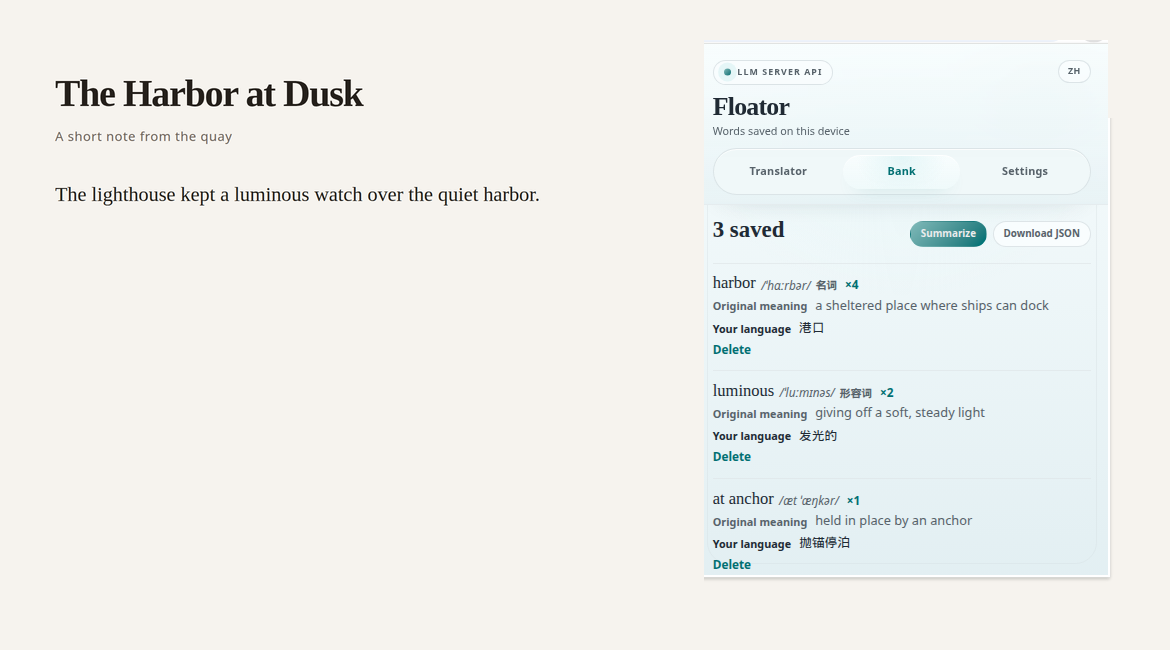
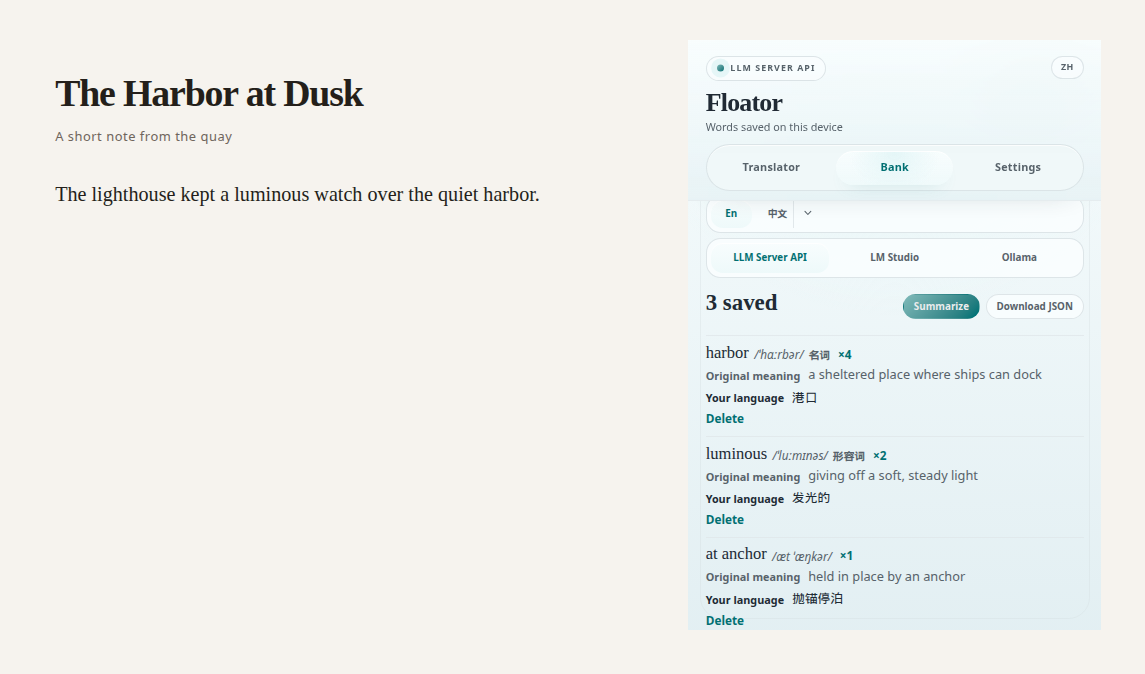
docs: show providers and En | 中文 with the bank
Keep the Bank list in place and show the real language switch and provider choices in that same popup.

diff --git a/src/popup/index.tsx b/src/popup/index.tsx
@@ -499,6 +499,94 @@ function BankPanel({
   )
 }
 
+function LanguageControl({
+  userLanguage,
+  interfaceSide,
+  t,
+  onCommit,
+}: {
+  userLanguage: UserLanguage
+  interfaceSide: InterfaceSide
+  t: ReturnType<typeof getTranslation>
+  onCommit: (patch: { userLanguage?: UserLanguage; interfaceSide?: InterfaceSide }) => void
+}) {
+  return (
+    <div className="popup-lang-switch" role="radiogroup" aria-label={t.popup.userLanguage}>
+      <button
+        type="button"
+        className="popup-lang-option"
+        role="radio"
+        aria-checked={interfaceSide === 'en'}
+        aria-label={t.popup.interfaceEnglish}
+        title={t.popup.interfaceEnglish}
+        data-active={interfaceSide === 'en'}
+        onClick={() => onCommit({ interfaceSide: 'en' })}
+      >
+        En
+      </button>
+      <div className="popup-lang-user" data-active={interfaceSide === 'user'}>
+        <button
+          type="button"
+          className="popup-lang-option popup-lang-option--user"
+          role="radio"
+          aria-checked={interfaceSide === 'user'}
+          title={USER_LANGUAGE_ENDONYM[userLanguage]}
+          data-active="false"
+          onClick={() => onCommit({ interfaceSide: 'user' })}
+        >
+          {USER_LANGUAGE_ENDONYM[userLanguage]}
+        </button>
+        <label className="popup-lang-caret">
+          <select
+            aria-label={t.popup.userLanguagePick}
+            value={userLanguage}
+            onChange={event => {
+              const nextLanguage = event.target.value
+              if (!isUserLanguage(nextLanguage)) return
+              onCommit({ userLanguage: nextLanguage })
+            }}
+          >
+            {USER_LANGUAGES.map(value => (
+              <option key={value} value={value}>{USER_LANGUAGE_ENDONYM[value]}</option>
+            ))}
+          </select>
+          <svg viewBox="0 0 20 20" fill="currentColor" aria-hidden="true">
+            <path fillRule="evenodd" d="M5.23 7.21a.75.75 0 011.06.02L10 11.17l3.71-3.94a.75.75 0 111.08 1.04l-4.25 4.5a.75.75 0 01-1.08 0l-4.25-4.5a.75.75 0 01.02-1.06z" clipRule="evenodd" />
+          </svg>
+        </label>
+      </div>
+    </div>
+  )
+}
+
+function ProviderControl({
+  active,
+  labelFor,
+  onChange,
+}: {
+  active: ApiProvider
+  labelFor: (provider: ApiProvider) => string
+  onChange: (provider: ApiProvider) => void
+}) {
+  return (
+    <div className="popup-provider-tabs" role="radiogroup" aria-label="AI provider">
+      {API_PROVIDER_TABS.map(provider => (
+        <button
+          key={provider}
+          type="button"
+          role="radio"
+          aria-checked={active === provider}
+          onClick={() => onChange(provider)}
+          className="popup-provider-tab"
+          data-active={active === provider}
+        >
+          {labelFor(provider)}
+        </button>
+      ))}
+    </div>
+  )
+}
+
 const Popup = () => {
   const [config, setConfig] = useState<AppConfig>(DEFAULT_CONFIG)
   const [activeTab, setActiveTab] = useState<'translate' | 'bank' | 'settings'>('translate')
@@ -1202,7 +1290,22 @@ const Popup = () => {
         )}
 
         {activeTab === 'bank' && (
-          <BankPanel memory={memory} userLanguage={config.userLanguage} interfaceLanguage={interfaceLanguage} t={t} />
+          <div className="popup-stack">
+            <div className="popup-bank-controls">
+              <LanguageControl
+                userLanguage={config.userLanguage}
+                interfaceSide={config.interfaceSide}
+                t={t}
+                onCommit={patch => void commitLanguage(patch)}
+              />
+              <ProviderControl
+                active={config.activeApiProvider}
+                labelFor={provider => providerLabelMap[provider]}
+                onChange={handleProviderTabChange}
+              />
+            </div>
+            <BankPanel memory={memory} userLanguage={config.userLanguage} interfaceLanguage={interfaceLanguage} t={t} />
+          </div>
         )}
 
         {activeTab === 'settings' && (
@@ -1216,51 +1319,12 @@ const Popup = () => {
                     <span className="popup-setting-title">{t.popup.userLanguage}</span>
                     <span className="popup-setting-description">{t.popup.userLanguageDesc}</span>
                   </div>
-                  <div className="popup-lang-switch" role="radiogroup" aria-label={t.popup.userLanguage}>
-                    <button
-                      type="button"
-                      className="popup-lang-option"
-                      role="radio"
-                      aria-checked={config.interfaceSide === 'en'}
-                      aria-label={t.popup.interfaceEnglish}
-                      title={t.popup.interfaceEnglish}
-                      data-active={config.interfaceSide === 'en'}
-                      onClick={() => void commitLanguage({ interfaceSide: 'en' })}
-                    >
-                      En
-                    </button>
-                    <div className="popup-lang-user" data-active={config.interfaceSide === 'user'}>
-                      <button
-                        type="button"
-                        className="popup-lang-option popup-lang-option--user"
-                        role="radio"
-                        aria-checked={config.interfaceSide === 'user'}
-                        title={USER_LANGUAGE_ENDONYM[config.userLanguage]}
-                        data-active="false"
-                        onClick={() => void commitLanguage({ interfaceSide: 'user' })}
-                      >
-                        {USER_LANGUAGE_ENDONYM[config.userLanguage]}
-                      </button>
-                      <label className="popup-lang-caret">
-                        <select
-                          aria-label={t.popup.userLanguagePick}
-                          value={config.userLanguage}
-                          onChange={event => {
-                            const nextLanguage = event.target.value
-                            if (!isUserLanguage(nextLanguage)) return
-                            void commitLanguage({ userLanguage: nextLanguage })
-                          }}
-                        >
-                          {USER_LANGUAGES.map(value => (
-                            <option key={value} value={value}>{USER_LANGUAGE_ENDONYM[value]}</option>
-                          ))}
-                        </select>
-                        <svg viewBox="0 0 20 20" fill="currentColor" aria-hidden="true">
-                          <path fillRule="evenodd" d="M5.23 7.21a.75.75 0 011.06.02L10 11.17l3.71-3.94a.75.75 0 111.08 1.04l-4.25 4.5a.75.75 0 01-1.08 0l-4.25-4.5a.75.75 0 01.02-1.06z" clipRule="evenodd" />
-                        </svg>
-                      </label>
-                    </div>
-                  </div>
+                  <LanguageControl
+                    userLanguage={config.userLanguage}
+                    interfaceSide={config.interfaceSide}
+                    t={t}
+                    onCommit={patch => void commitLanguage(patch)}
+                  />
                 </div>
 
                 <div className="popup-setting-row">
@@ -1355,19 +1419,11 @@ const Popup = () => {
             <section className="popup-section popup-reveal popup-reveal--3">
               <h2 className="popup-section-title">{t.popup.apiConfigTitle}</h2>
 
-              <div className="popup-provider-tabs">
-                {API_PROVIDER_TABS.map(provider => (
-                  <button
-                    key={provider}
-                    type="button"
-                    onClick={() => handleProviderTabChange(provider)}
-                    className="popup-provider-tab"
-                    data-active={config.activeApiProvider === provider}
-                  >
-                    {providerLabelMap[provider]}
-                  </button>
-                ))}
-              </div>
+              <ProviderControl
+                active={config.activeApiProvider}
+                labelFor={provider => providerLabelMap[provider]}
+                onChange={handleProviderTabChange}
+              />
 
               <div className="popup-card">
                 <div className="popup-form">

diff --git a/src/index.css b/src/index.css
@@ -82,6 +82,29 @@
     transition: filter 220ms var(--ease-out);
   }
 
+  .popup-shell[data-tab='bank'] {
+    height: 600px;
+    min-height: 600px;
+    max-height: 600px;
+  }
+
+  .popup-shell[data-tab='bank'] .popup-bank-row {
+    padding-top: 8px;
+    padding-bottom: 8px;
+  }
+
+  .popup-bank-controls {
+    display: flex;
+    flex-direction: column;
+    gap: 6px;
+  }
+
+  .popup-bank-controls .popup-lang-switch,
+  .popup-bank-controls .popup-provider-tabs {
+    width: 100%;
+    max-width: none;
+  }
+
   .popup-shell[data-tab='settings'] {
     --accent: var(--accent-alt);
     --accent-strong: var(--accent-alt-strong);

diff --git a/README.md b/README.md
@@ -45,7 +45,7 @@ Floator is for anyone who reads the web in another language and wants the meanin
 
 ![The same Harbor page and card on the chat page, with a short follow-up and its answer](docs/store/screenshots/floating-chat.png)
 
-![Popup on the Harbor page. The Bank lists harbor, luminous, and the phrase at anchor, with pronunciation, part of speech on the single words, an English gloss, a Chinese translation, and an add count. The phrase has no part of speech.](docs/store/screenshots/popup-bank.png)
+![Popup on the Harbor page with the Bank still open. En is selected beside 中文, and the provider control shows LLM Server API, LM Studio, and Ollama. The list has pronunciation, part of speech on the single words, an English gloss, a Chinese translation, and an add count. The phrase at anchor has no part of speech.](docs/store/screenshots/popup-bank.png)
 
 ## Install
 
